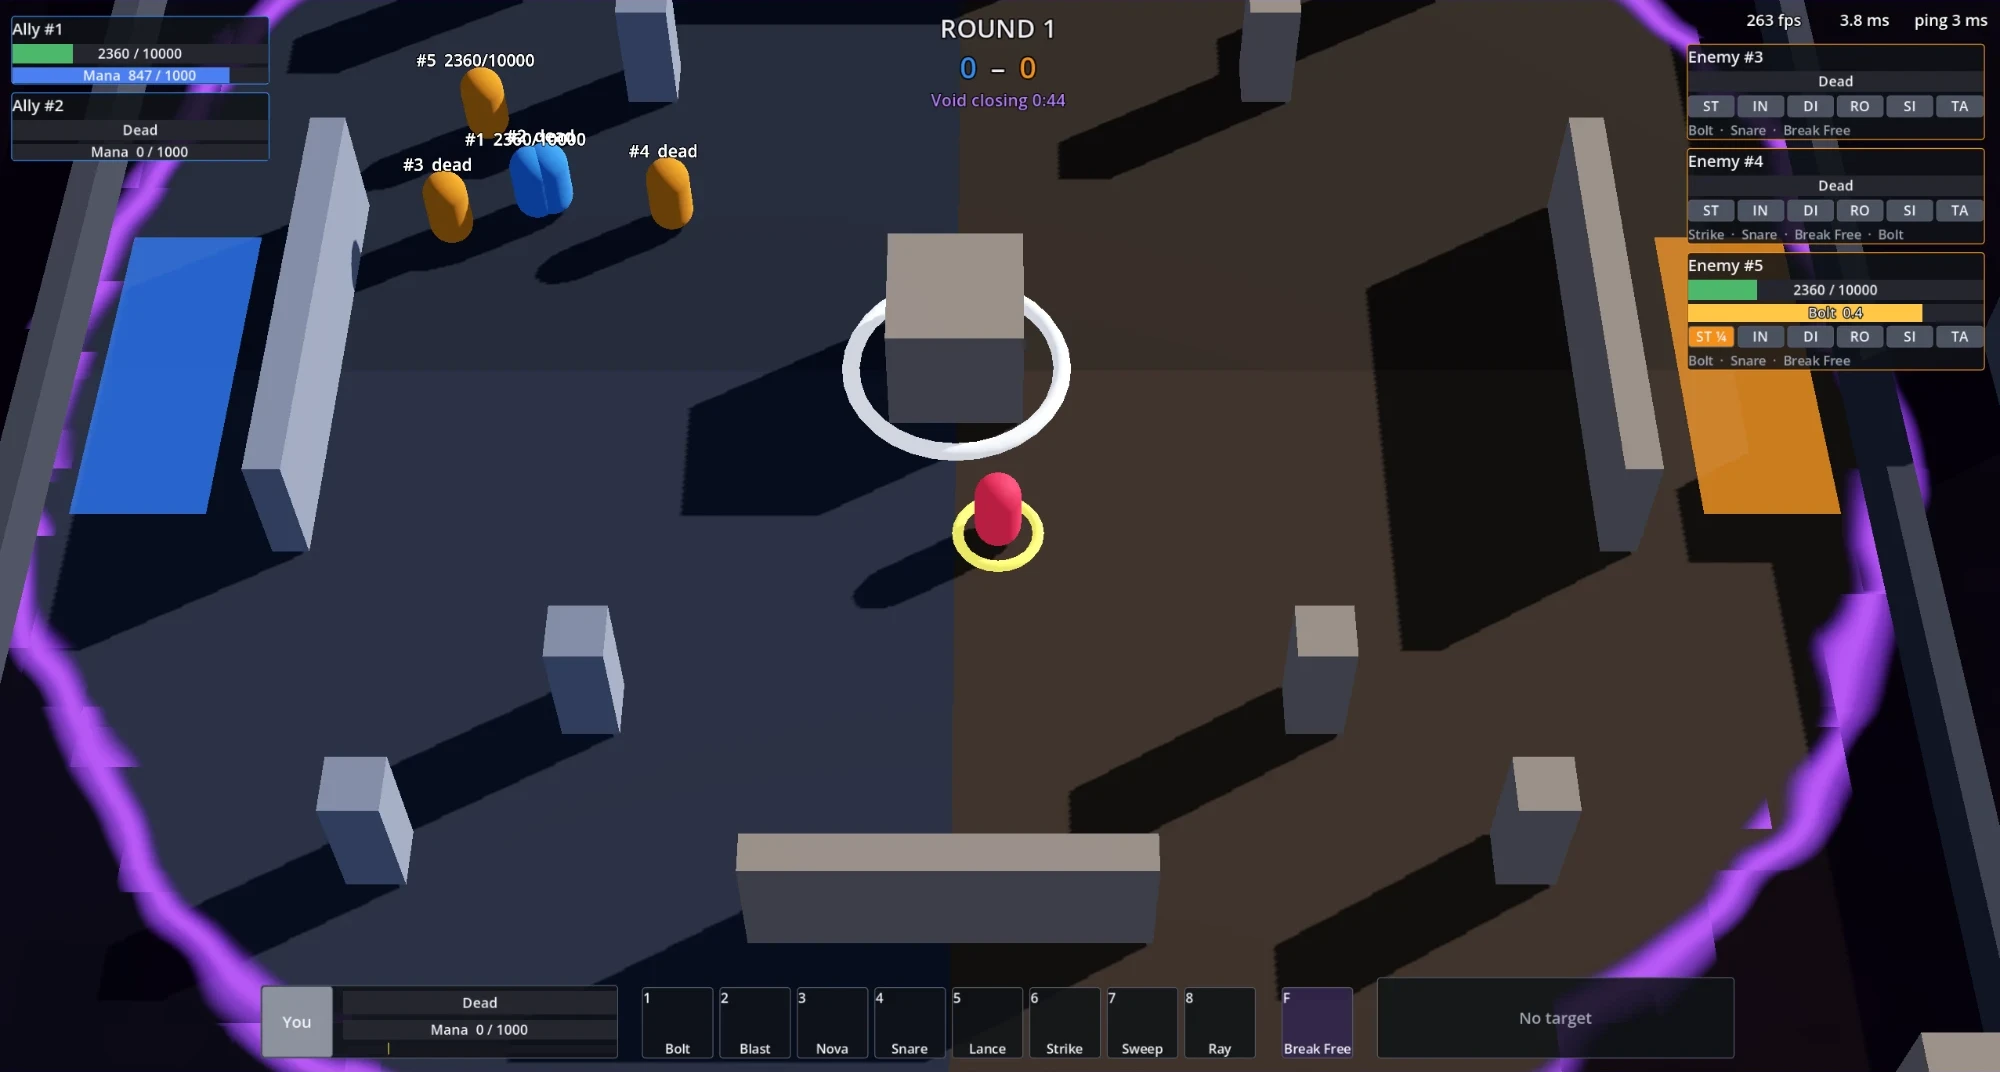
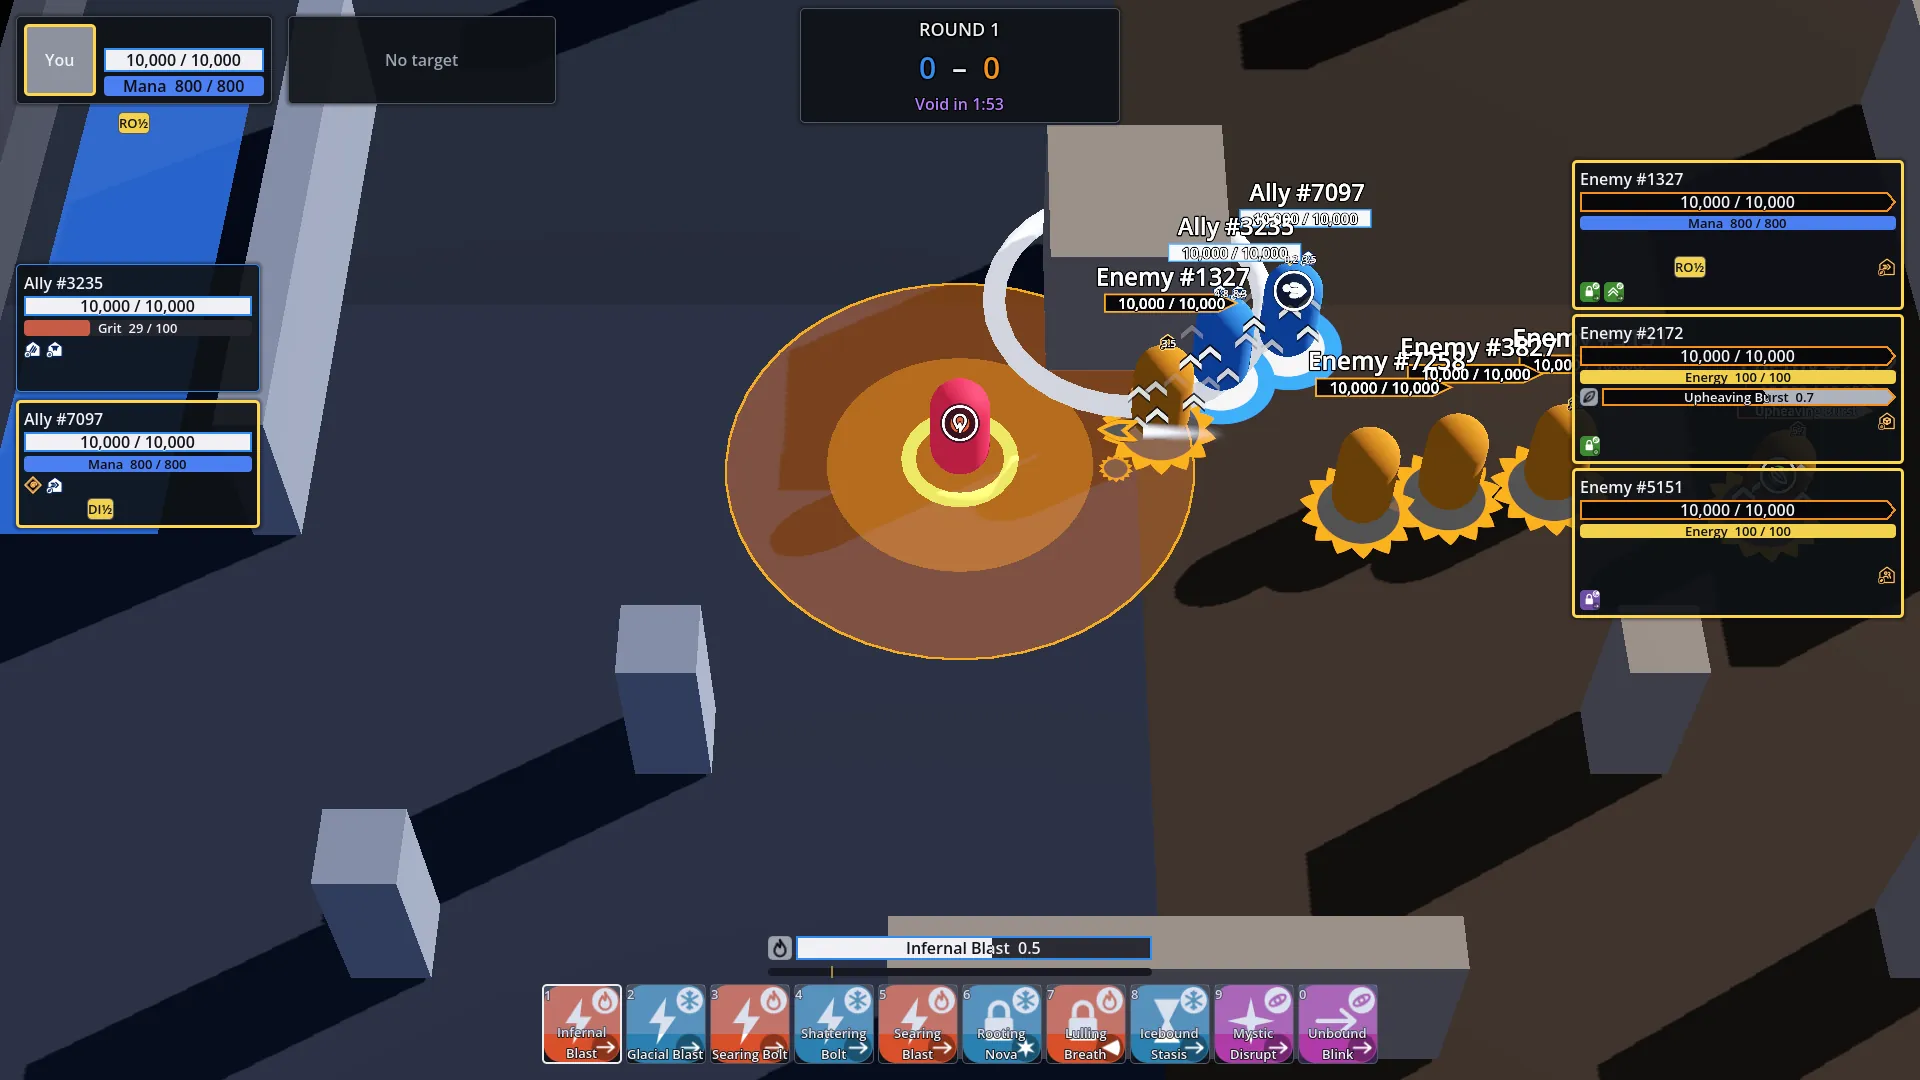
Add the studio website card and a current Runefall screenshot
- New card for the Chuken Studios website (public site and private team
  site), unannounced, with no link and without naming the game.
- Runefall's card and breakdown image is now a November build: a 3v3
  against bots with the ten-slot ability bar.
- Heartbeat is labeled Live instead of Live beta.

diff --git a/src/data/projects.ts b/src/data/projects.ts
@@ -24,6 +24,7 @@ import runefallShot from '../assets/runefall/gameplay.webp';
 import guildGolemShot from '../assets/board/guild-golem.webp';
 import fakebookShot from '../assets/board/fakebook-marketplace.webp';
 import scrapperShot from '../assets/board/scrapper-bots.webp';
+import studioShot from '../assets/board/studio-website.webp';
 
 /**
  * Filter tags, in the order the filter bar shows them. A tag replaces the other tag picked in its group, and tags from
@@ -110,7 +111,7 @@ export const projects: readonly Project[] = [
     tags: ['game', 'solo'],
     image: {
       src: runefallShot,
-      alt: 'Runefall in engine: a top-down 3v3 arena round in greybox, with team frames and an eight-slot ability bar',
+      alt: 'Runefall in engine: a top-down 3v3 arena round against bots in greybox, with both teams meeting at the center pillar, team and enemy frames, and the ten-slot ability bar',
       position: 'center 40%',
     },
   },
@@ -142,7 +143,7 @@ export const projects: readonly Project[] = [
     title: 'Heartbeat',
     deck: 'web',
     quality: 'legend',
-    state: { kind: 'live', label: 'Live beta' },
+    state: { kind: 'live', label: 'Live' },
     role: 'Solo, Oct 2026 to present',
     summary:
       'A browser aim trainer that records where and how you miss. You click circles, follow sliders and spin spinners in time with a beat, on maps generated from a seed or in eight training modules that adjust their difficulty after every set. Ratings, trends and insights from your last 30 days of clicks point to a weak spot and a drill for it, and later plays show whether the drill carried over. Every play saves a replay you can scrub through, and each day brings a four-step practice plan and a shared daily map. It comes in nine languages, and everything stays in the browser, with no account.',
@@ -430,6 +431,23 @@ export const projects: readonly Project[] = [
     tags: ['design', 'solo'],
     link: { label: 'Excerpt on request', href: mailto('Runefall worldbuilding excerpt') },
     partOf: '$run',
+  },
+  {
+    ref: '$studio',
+    title: 'Chuken Studios website',
+    deck: 'tools',
+    quality: 'legend',
+    state: { kind: 'progress', label: 'Unannounced' },
+    role: 'Solo, Nov 2026 to present',
+    summary:
+      'The studio’s website, built as two Cloudflare Workers from one repo. The public site introduces the studio and its first game without naming it, and takes contact and careers messages, checked by Turnstile and a rate limit and stored in D1. The team site is private behind Cloudflare Access, and its Worker checks each request’s Access token and the member list too, refusing everyone if a setting is missing. It holds the game’s design docs, an inbox for those messages, the member list with an audit log, and pages for daily playtest metrics, builds and CI runs, sent in from the game’s side. Before any deploy, a leak check scans the public build for the game’s codename and other secret terms, even when they’re split by markup or hidden behind HTML entities.',
+    stack: ['Astro', 'TypeScript', 'Cloudflare Workers', 'D1', 'Cloudflare Access', 'Turnstile'],
+    tags: ['web', 'solo'],
+    image: {
+      src: studioShot,
+      alt: 'The studio site’s home page: “We make games. The first one is on the way.” above a project file titled Unannounced Project, marked Classified',
+      position: 'left top',
+    },
   },
   {
     ref: '$pipe',

diff --git a/src/content/breakdowns/runefall.md b/src/content/breakdowns/runefall.md
@@ -2,8 +2,8 @@
 title: 'Runefall'
 description: 'A classless competitive RPG of arenas and a five-player dungeon, where every player builds their own kit and opponents learn it only by surviving it.'
 image: '../../assets/runefall/gameplay.webp'
-imageAlt: 'Runefall in engine: round one of a 3v3 as the void closes in, with team frames, enemy frames, and the ability bar, in greybox'
-caption: 'In engine, from a September core-loop build: round one of a 3v3 as the void closes in. Enemy frames list the abilities you have discovered by facing them. Greybox art; the bar has since grown to all ten abilities.'
+imageAlt: 'Runefall in engine: round one of a 3v3 against bots, in greybox. My character casts Infernal Blast inside its area marker as both teams meet at the center pillar, with team frames, enemy frames, and the ten-slot ability bar'
+caption: 'In engine, from a November build: round one of a 3v3 against bots, as the two teams meet at the center pillar. Greybox art.'
 role: 'Solo: design, code, and production'
 timeline: 'Feb 2026 to present'
 stack: ['Godot 4.7 (.NET)', 'C#', '.NET 10', 'Steamworks', 'ASP.NET Core', 'SQLite', 'xUnit']
